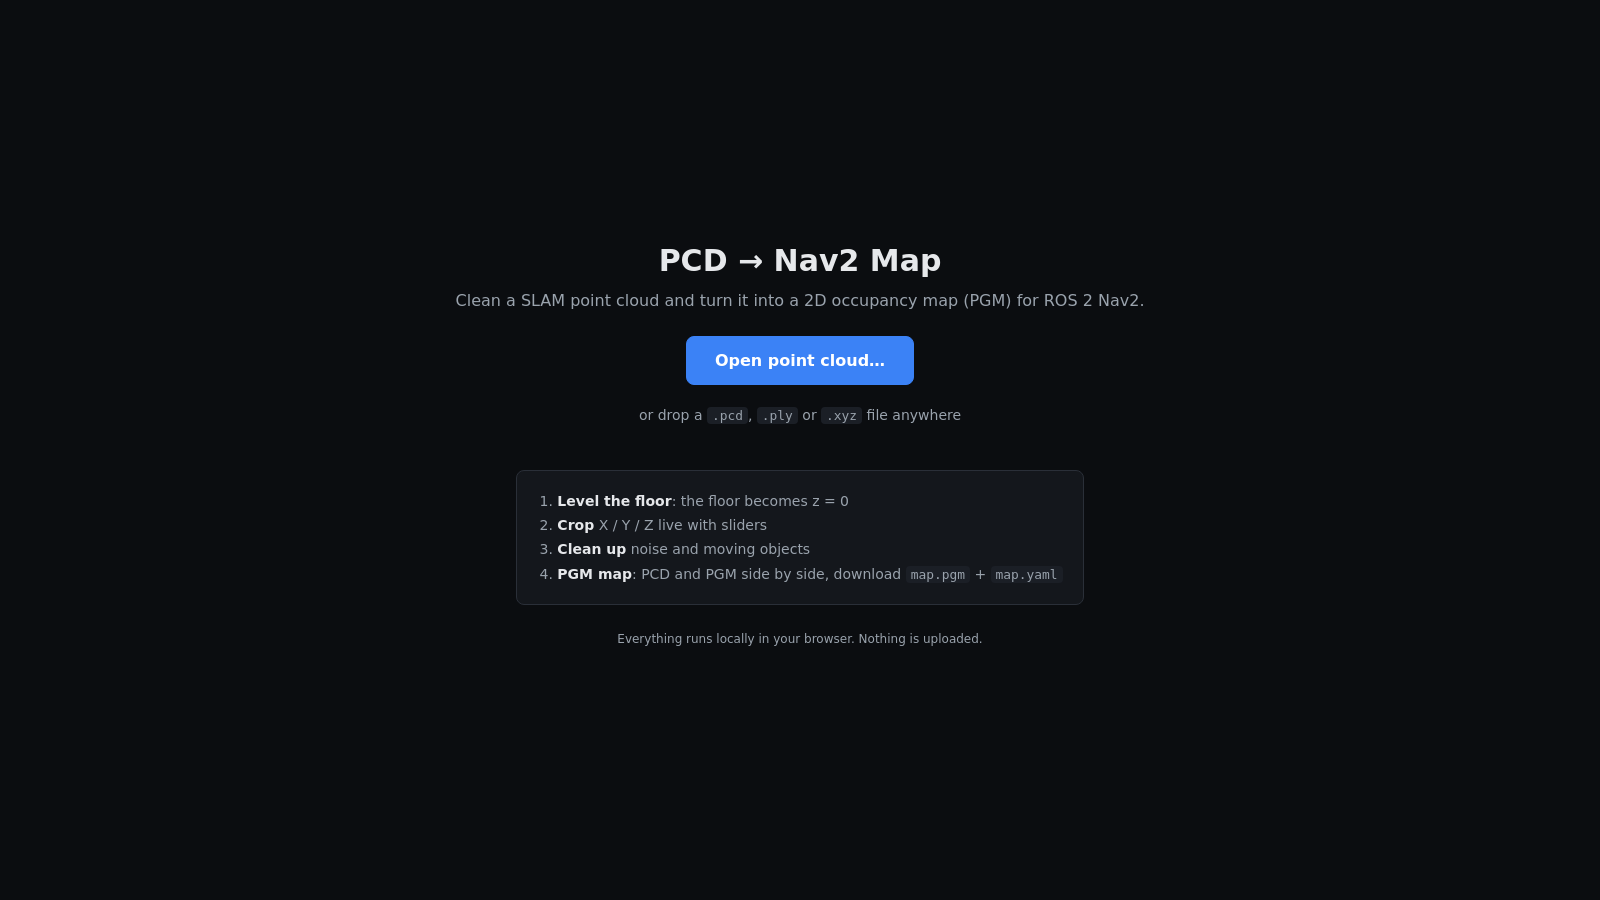
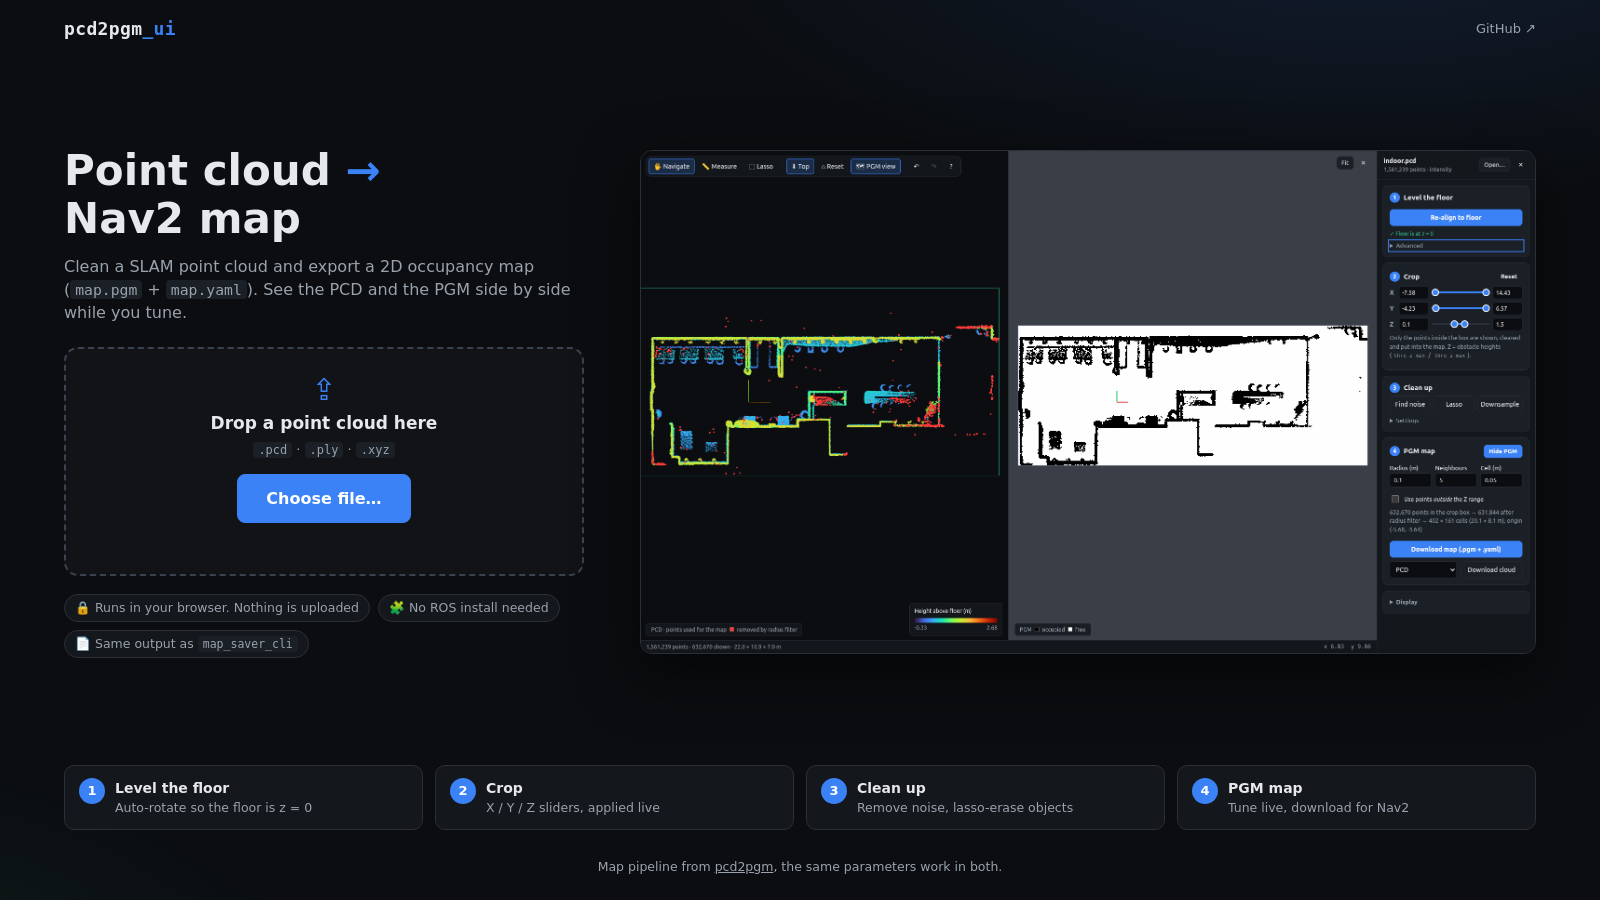
Redesign welcome page and reorder README
- Welcome page: drop zone with loading/error state, preview image,
  feature badges, step cards, GitHub link; rename to pcd2pgm_ui
- Clear error message for invalid point cloud files
- README: welcome image first, then installation, then how it works

diff --git a/css/style.css b/css/style.css
@@ -175,31 +175,127 @@ input[type="checkbox"] { accent-color: var(--accent); width: 16px; height: 16px;
   position: absolute;
   inset: 0;
   z-index: 2;
-  background: var(--bg);
+  display: flex;
+  flex-direction: column;
+  gap: 28px;
+  padding: 20px clamp(20px, 5vw, 64px) 24px;
+  overflow-y: auto;
+  background:
+    radial-gradient(1200px 500px at 85% -10%, rgba(59, 130, 246, 0.14), transparent 60%),
+    radial-gradient(800px 400px at -10% 110%, rgba(52, 211, 153, 0.08), transparent 60%),
+    var(--bg);
+}
+.w-top { display: flex; align-items: center; justify-content: space-between; }
+.w-logo { font: 700 18px/1 ui-monospace, monospace; letter-spacing: 0.02em; }
+.w-logo span { color: var(--accent); }
+.w-link { color: var(--muted); text-decoration: none; font-size: 13px; }
+.w-link:hover { color: var(--text); }
+
+.w-main {
+  display: grid;
+  grid-template-columns: minmax(320px, 520px) minmax(0, 1fr);
+  gap: clamp(24px, 4vw, 56px);
+  align-items: center;
+  margin: auto 0;
+}
+.w-intro h1 { margin: 0 0 12px; font-size: clamp(28px, 3.4vw, 42px); line-height: 1.15; }
+.w-intro h1 .arrow { color: var(--accent); }
+.w-intro h1 .nw { white-space: nowrap; }
+.w-lead { margin: 0 0 22px; color: var(--muted); font-size: 16px; }
+
+#drop-zone {
   display: flex;
   flex-direction: column;
   align-items: center;
-  justify-content: center;
-  text-align: center;
-  padding: 24px;
   gap: 6px;
+  padding: 26px 20px 22px;
+  border: 2px dashed #3a4250;
+  border-radius: 14px;
+  background: rgba(20, 23, 28, 0.7);
+  text-align: center;
+  cursor: pointer;
+  transition: border-color 0.15s, background 0.15s;
 }
-#welcome h1 { margin: 0; font-size: 30px; }
-#welcome > p:first-of-type { color: var(--muted); font-size: 16px; margin: 0 0 18px; }
-#welcome .steps {
-  margin: 24px 0 8px;
-  padding: 16px 20px 16px 40px;
-  text-align: left;
+#drop-zone:hover, body.dragging #drop-zone { border-color: var(--accent); background: rgba(59, 130, 246, 0.08); }
+.dz-icon { font-size: 30px; line-height: 1; color: var(--accent); }
+.dz-title { font-size: 17px; font-weight: 600; }
+.dz-sub { color: var(--muted); font-size: 13px; margin-bottom: 8px; }
+#welcome-status { min-height: 1.4em; margin-top: 4px; font-size: 13px; color: var(--muted); }
+#welcome-status.error { color: var(--err); }
+#welcome-status.working::before {
+  content: "";
+  display: inline-block;
+  width: 10px;
+  height: 10px;
+  margin-right: 8px;
+  border: 2px solid var(--muted);
+  border-top-color: var(--accent);
+  border-radius: 50%;
+  vertical-align: -1px;
+  animation: spin 0.8s linear infinite;
+}
+#file-input:focus-visible + #viewport #drop-zone { outline: 2px solid var(--accent); outline-offset: 3px; }
+
+.w-badges { display: flex; flex-wrap: wrap; gap: 8px; margin: 18px 0 0; padding: 0; list-style: none; }
+.w-badges li {
+  padding: 4px 10px;
   border: 1px solid var(--line);
-  border-radius: var(--radius);
+  border-radius: 999px;
   background: var(--panel);
   color: var(--muted);
+  font-size: 12.5px;
 }
-#welcome .steps li { margin: 4px 0; }
-#welcome .steps strong { color: var(--text); }
-#welcome-status:empty { display: none; }
-#welcome-status.error { color: var(--err); }
-body.dragging #welcome { opacity: 0.3; }
+
+.w-preview { margin: 0; min-width: 0; }
+.w-preview img {
+  display: block;
+  width: 100%;
+  max-height: 62vh;
+  object-fit: contain;
+  border: 1px solid var(--line);
+  border-radius: 12px;
+  box-shadow: 0 20px 60px rgba(0, 0, 0, 0.55);
+}
+
+.w-steps {
+  display: grid;
+  grid-template-columns: repeat(4, 1fr);
+  gap: 12px;
+  margin: 0;
+  padding: 0;
+  list-style: none;
+}
+.w-steps li {
+  display: grid;
+  grid-template-columns: auto 1fr;
+  grid-template-rows: auto auto;
+  column-gap: 10px;
+  padding: 12px 14px;
+  border: 1px solid var(--line);
+  border-radius: 10px;
+  background: var(--panel);
+}
+.w-steps .num {
+  grid-row: span 2;
+  display: grid;
+  place-items: center;
+  width: 26px;
+  height: 26px;
+  border-radius: 50%;
+  background: var(--accent);
+  color: #fff;
+  font-size: 13px;
+  font-weight: 700;
+}
+.w-steps span:last-child { color: var(--muted); font-size: 12.5px; }
+.w-foot { margin: 0; text-align: center; color: var(--muted); font-size: 12.5px; }
+.w-foot a { color: var(--muted); }
+
+@media (max-width: 1000px) {
+  .w-main { grid-template-columns: 1fr; }
+  .w-preview { display: none; }
+  .w-steps { grid-template-columns: repeat(2, 1fr); }
+}
 
 /* ---------- Toolbar ---------- */
 #toolbar {

diff --git a/index.html b/index.html
@@ -1,7 +1,7 @@
 <!DOCTYPE html>
 <html lang="en">
   <head>
-    <title>PCD → Nav2 Map</title>
+    <title>pcd2pgm_ui: point cloud to Nav2 map</title>
     <meta charset="utf-8" />
     <meta name="viewport" content="width=device-width, initial-scale=1.0" />
     <script>document.write(`<link rel="stylesheet" href="css/style.css?v=${Date.now()}" />`);</script>
@@ -51,18 +51,44 @@
       </section>
 
       <section id="welcome">
-        <h1>PCD → Nav2 Map</h1>
-        <p>Clean a SLAM point cloud and turn it into a 2D occupancy map (PGM) for ROS 2 Nav2.</p>
-        <label for="file-input" class="btn primary big">Open point cloud…</label>
-        <p class="muted">or drop a <code>.pcd</code>, <code>.ply</code> or <code>.xyz</code> file anywhere</p>
-        <p id="welcome-status" role="status" aria-live="polite"></p>
-        <ol class="steps">
-          <li><strong>Level the floor</strong>: the floor becomes z = 0</li>
-          <li><strong>Crop</strong> X / Y / Z live with sliders</li>
-          <li><strong>Clean up</strong> noise and moving objects</li>
-          <li><strong>PGM map</strong>: PCD and PGM side by side, download <code>map.pgm</code> + <code>map.yaml</code></li>
+        <header class="w-top">
+          <span class="w-logo">pcd2pgm<span>_ui</span></span>
+          <a class="w-link" href="https://github.com/alitekes1/pcd2pgm_ui" target="_blank" rel="noopener">GitHub ↗</a>
+        </header>
+
+        <div class="w-main">
+          <div class="w-intro">
+            <h1>Point cloud <span class="arrow">→</span> <span class="nw">Nav2 map</span></h1>
+            <p class="w-lead">Clean a SLAM point cloud and export a 2D occupancy map (<code>map.pgm</code> + <code>map.yaml</code>). See the PCD and the PGM side by side while you tune.</p>
+
+            <label for="file-input" id="drop-zone">
+              <span class="dz-icon" aria-hidden="true">⇪</span>
+              <span class="dz-title">Drop a point cloud here</span>
+              <span class="dz-sub"><code>.pcd</code> · <code>.ply</code> · <code>.xyz</code></span>
+              <span class="btn primary big">Choose file…</span>
+              <span id="welcome-status" role="status" aria-live="polite"></span>
+            </label>
+
+            <ul class="w-badges">
+              <li>🔒 Runs in your browser. Nothing is uploaded</li>
+              <li>🧩 No ROS install needed</li>
+              <li>📄 Same output as <code>map_saver_cli</code></li>
+            </ul>
+          </div>
+
+          <figure class="w-preview">
+            <img src="docs/indoor_pcd.png" alt="A point cloud shown from above next to the generated PGM map" />
+          </figure>
+        </div>
+
+        <ol class="w-steps">
+          <li><span class="num">1</span><b>Level the floor</b><span>Auto-rotate so the floor is z = 0</span></li>
+          <li><span class="num">2</span><b>Crop</b><span>X / Y / Z sliders, applied live</span></li>
+          <li><span class="num">3</span><b>Clean up</b><span>Remove noise, lasso-erase objects</span></li>
+          <li><span class="num">4</span><b>PGM map</b><span>Tune live, download for Nav2</span></li>
         </ol>
-        <p class="muted small">Everything runs locally in your browser. Nothing is uploaded.</p>
+
+        <p class="w-foot">Map pipeline from <a href="https://github.com/LihanChen2004/pcd2pgm" target="_blank" rel="noopener">pcd2pgm</a>, the same parameters work in both.</p>
       </section>
 
       <footer id="statusbar" hidden>

diff --git a/js/app.js b/js/app.js
@@ -332,6 +332,7 @@ function status(msg, { error = false, sticky = false } = {}) {
   // The status bar is hidden on the welcome screen.
   $("welcome-status").textContent = state.cloud ? "" : msg;
   $("welcome-status").classList.toggle("error", error);
+  $("welcome-status").classList.toggle("working", !state.cloud && sticky);
 }
 
 async function busy(label, fn) {
@@ -362,10 +363,18 @@ const xyzLoader = new XYZLoader();
 
 async function parseFile(file) {
   const ext = file.name.split(".").pop().toLowerCase();
-  if (ext === "pcd") return pcdLoader.parse(await file.arrayBuffer()).geometry;
-  if (ext === "ply") return plyLoader.parse(await file.arrayBuffer());
-  if (ext === "xyz" || ext === "txt") return xyzLoader.parse(await file.text());
-  throw new Error(`unsupported file type ".${ext}" (use .pcd, .ply or .xyz)`);
+  const parse = {
+    pcd: async () => pcdLoader.parse(await file.arrayBuffer()).geometry,
+    ply: async () => plyLoader.parse(await file.arrayBuffer()),
+    xyz: async () => xyzLoader.parse(await file.text()),
+  }[ext === "txt" ? "xyz" : ext];
+  if (!parse) throw new Error(`unsupported file type ".${ext}" (use .pcd, .ply or .xyz)`);
+  try {
+    return await parse();
+  } catch (e) {
+    console.error(e);
+    throw new Error(`this is not a valid .${ext === "txt" ? "xyz" : ext} file`);
+  }
 }
 
 // Keep only point attributes we use and drop NaN/Inf points (organized clouds contain them).

diff --git a/README.md b/README.md
@@ -1,10 +1,28 @@
-# PCD Tools
+# pcd2pgm_ui
 
-A browser tool that turns a SLAM point cloud into a 2D occupancy map (PGM) for ROS 2 Nav2. The PCD and the PGM are shown side by side, and the map updates live while you tune. Everything runs locally; nothing is uploaded.
+A browser tool that turns a SLAM point cloud into a 2D occupancy map (PGM) for ROS 2 Nav2. The PCD and the PGM are shown side by side, and the map updates live while you tune. No ROS install needed: everything runs locally in the browser and nothing is uploaded.
 
-![PCD and PGM side by side](docs/indoor_pcd2.png)
+![Start screen](docs/welcome.png)
 
-## Workflow
+## Installation
+
+1. Clone the repository:
+   ```bash
+   git clone https://github.com/alitekes1/pcd2pgm_ui.git
+   ```
+2. Navigate to the project directory:
+   ```bash
+   cd pcd2pgm_ui
+   ```
+3. Serve the folder with any static web server, for example:
+   ```bash
+   python3 -m http.server 8000
+   ```
+   Then open `http://localhost:8000`. Three.js is loaded from a CDN, so the first load needs internet access. Local files get a per-load `?v=` query, so after an update a normal reload is enough.
+
+## How it works
+
+![PCD and PGM side by side](docs/indoor_pcd.png)
 
 Open a `.pcd`, `.ply` or `.xyz` file (button or drag & drop). PCD can be ascii, binary or binary_compressed. Then follow the four steps in the side panel:
 
@@ -15,7 +33,7 @@ Open a `.pcd`, `.ply` or `.xyz` file (button or drag & drop). PCD can be ascii, 
 | **3. Clean up** | *Find noise* (statistical outlier removal; the points it would remove turn red, then you choose *Remove* or *Cancel*), *Lasso* to erase people, cars and other objects, and *Downsample* (voxel grid). |
 | **4. PGM map** | *Show PGM* opens the side-by-side view. Then download `map.pgm` + `map.yaml`, or the cleaned cloud (PCD / PLY). |
 
-![Opened cloud, floor aligned](docs/indoor_pcd.png)
+![Opened cloud, floor aligned](docs/indoor_pcd2.png)
 
 ### Crop
 
@@ -43,24 +61,6 @@ Points removed by the radius filter are drawn in red in the PCD pane; they are n
 
 - **Map**: `map.pgm` + `map.yaml`, the same files `map_saver_cli` writes (trinary, occupied = 0, free = 254). The map is in the current frame, i.e. after floor alignment or the manual transform.
 - **Cloud**: the points inside the crop box, as binary PCD or PLY, in the original file coordinates. RGB and intensity are kept.
-
-## Setup
-
-1. Clone the repository:
-   ```bash
-   git clone https://github.com/alitekes1/pcd_tools.git
-   ```
-2. Navigate to the project directory:
-   ```bash
-   cd pcd_tools
-   ```
-3. Serve the folder with any static web server, for example:
-   ```bash
-   python3 -m http.server 8000
-   ```
-   Then open `http://localhost:8000`. Three.js is loaded from a CDN, so the first load needs internet access. Local files get a per-load `?v=` query, so after an update a normal reload is enough.
-
-![Start screen](docs/welcome.png)
 
 ## Usage
 
